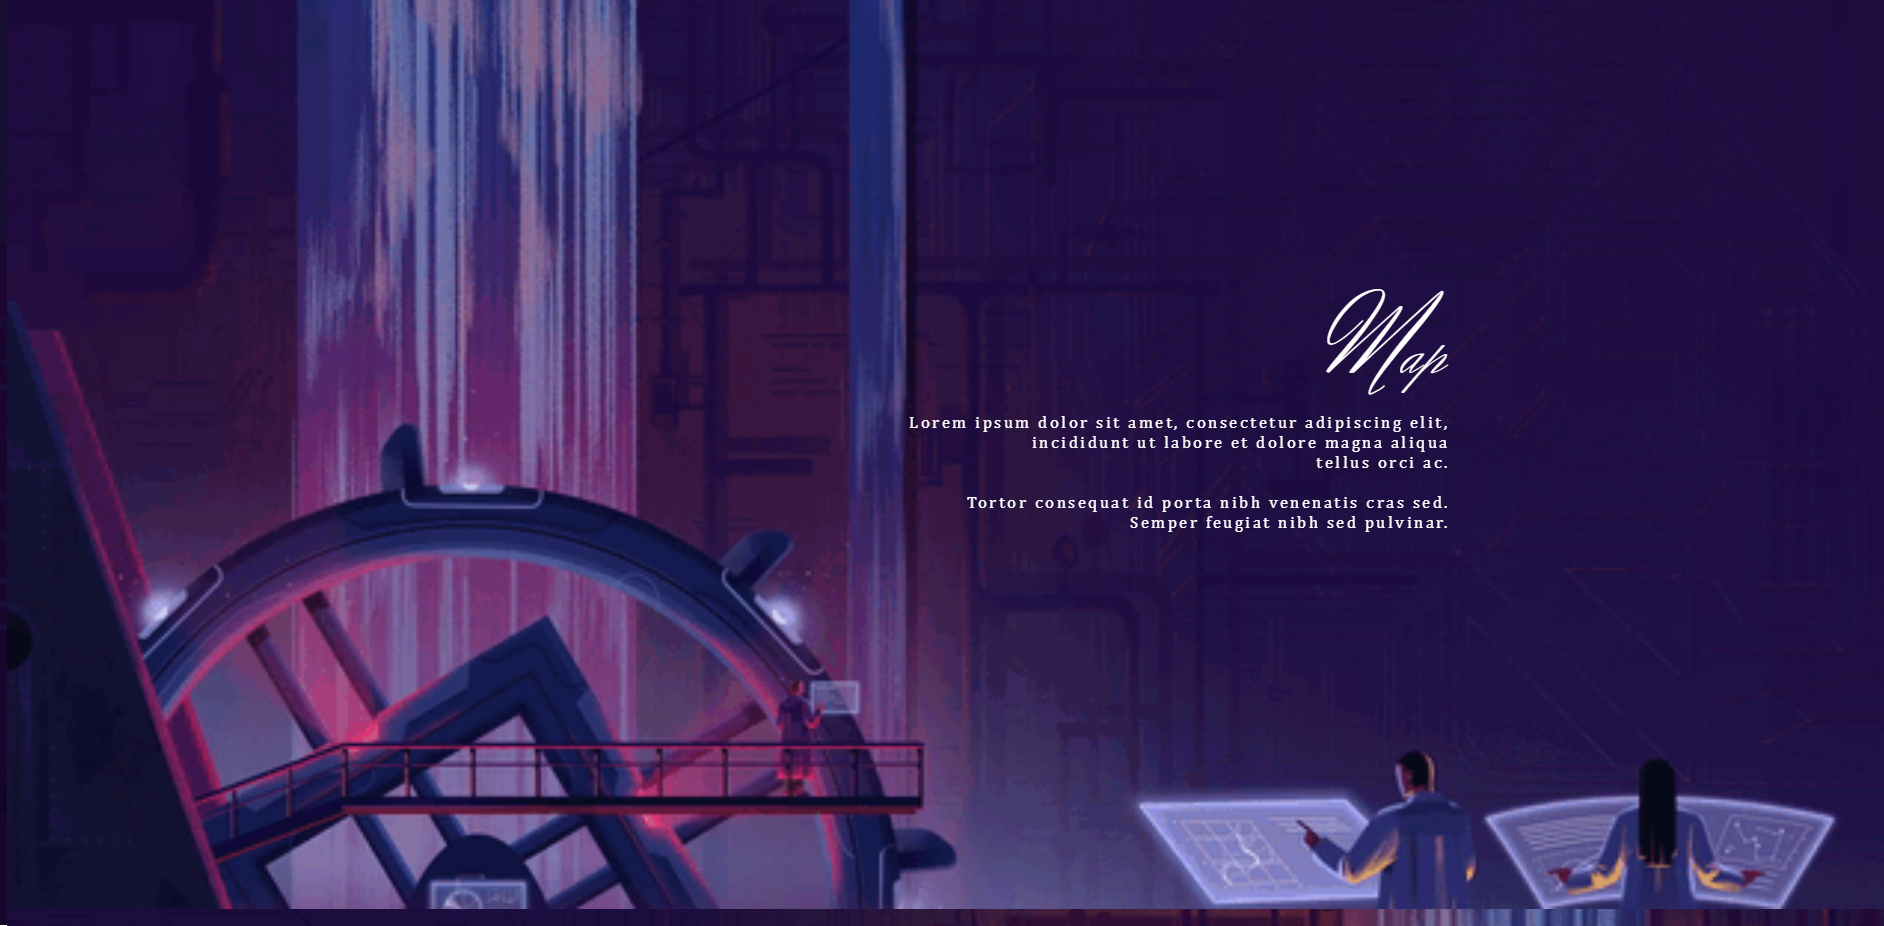
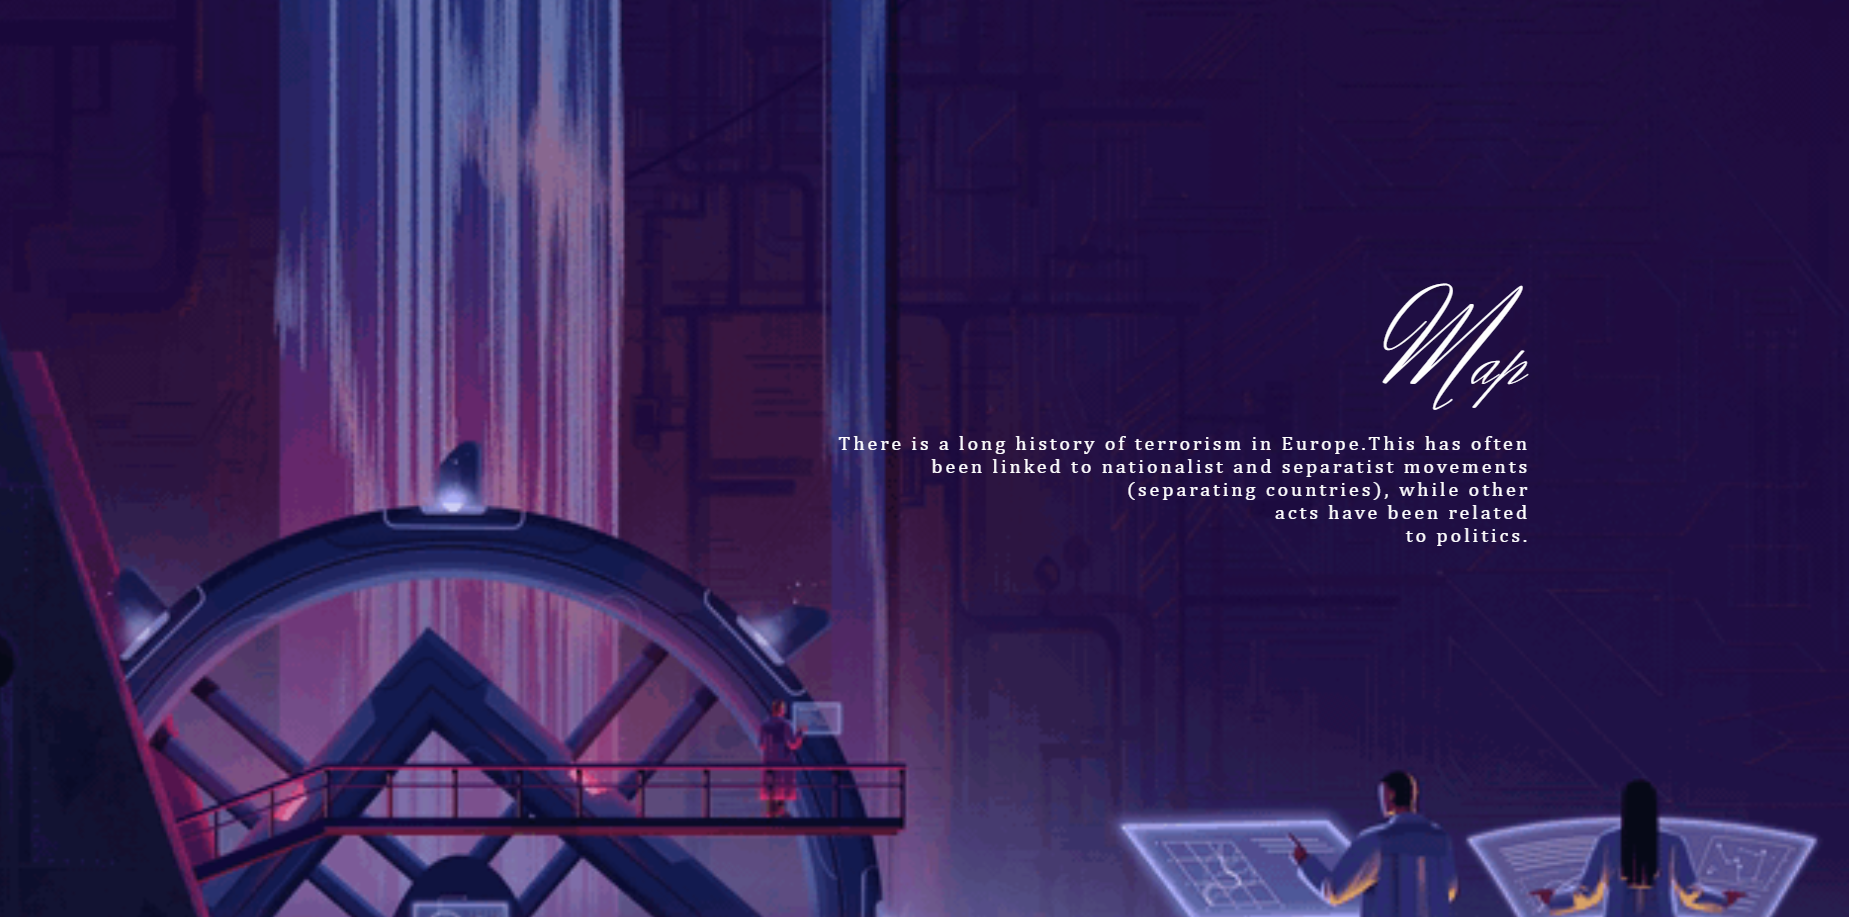
Added presentation

Changed region(s): [[0.0, 0.0, 1.0, 1.0], [0.3699, 0.5191, 0.4316, 0.5496]]

diff --git a/Documentatie/app presentation/presentation.html b/Documentatie/app presentation/presentation.html
@@ -1,0 +1,66 @@
+<!DOCTYPE html>
+<html lang="en">
+<head>
+    <meta charset="utf-8">
+    <title>Documentatie</title>
+</head>
+<body prefix="schema: http://schema.org/">
+    <header>
+        <p class="title" style="font-size: 2rem;font-weight: bolder;text-align: center;">Terrorism Web Project</p>
+    </header>
+
+    <article id="doc" typeof="schema:ScholarlyArticle" resource="#">
+        <h1>User Guide</h1>
+        <section id="presentation">
+            <h3>
+                Presentation Page</h3>
+            <p>
+                Here you can find details about the visualizer, by scrolling, or you can press “Explore in order to proceed to the next page”
+
+            <img src="presentation1.png" alt="presentation1" width="50%">
+            <img src="presentation2.png" alt="presentation2" width="50%">
+            <img src="presentation3.png" alt="presentation3" width="50%">
+            <img src="presentation4.png" alt="presentation4" width="50%">
+            </p>
+        </section>
+        <section id="visualization">
+            <h3>
+                Visualization modes
+            </h3>
+            <p>
+                Here you can read about the multiple data representations. After you are done, press thr diamond-shaped button, to go to the application main screen
+                <img src="presentation5.png" alt="presentation5" width="50%">
+            </p>
+        </section>
+        <section>
+            <h3>
+                The main screen allows 
+            </h3>
+            <ol>
+                <li>
+                    Data Filtering
+                    <pre>
+Choose a filter type from the current dropdown and press submit, then another dropdown will appear, 
+containing possible filter values for the filter you’ve just picked. For some filters, you can also specify an interval,
+ if the “Between” button is present. After all the filters are added, press search.
+                    </pre> 
+                </li>
+                <li>
+                    Data Visualization
+                    <pre>
+After you’ve picked your filters, you may pick your visualization method by pressing one of “map”, “pie chart”, “scatter chart”, “bar chart”, “chart”, “csv”, “png” 
+                    </pre>
+                </li>
+                <li>
+                    Data Save
+                    <pre>
+You can choose to save data  either as csv, png or svg by clicking hte download buttons.
+                    
+<img src="presentation6.png" alt="presentation6" width="50%">
+</pre>
+                </li>
+            </ol>
+        </section>
+        </article>
+</body>
+</html>
